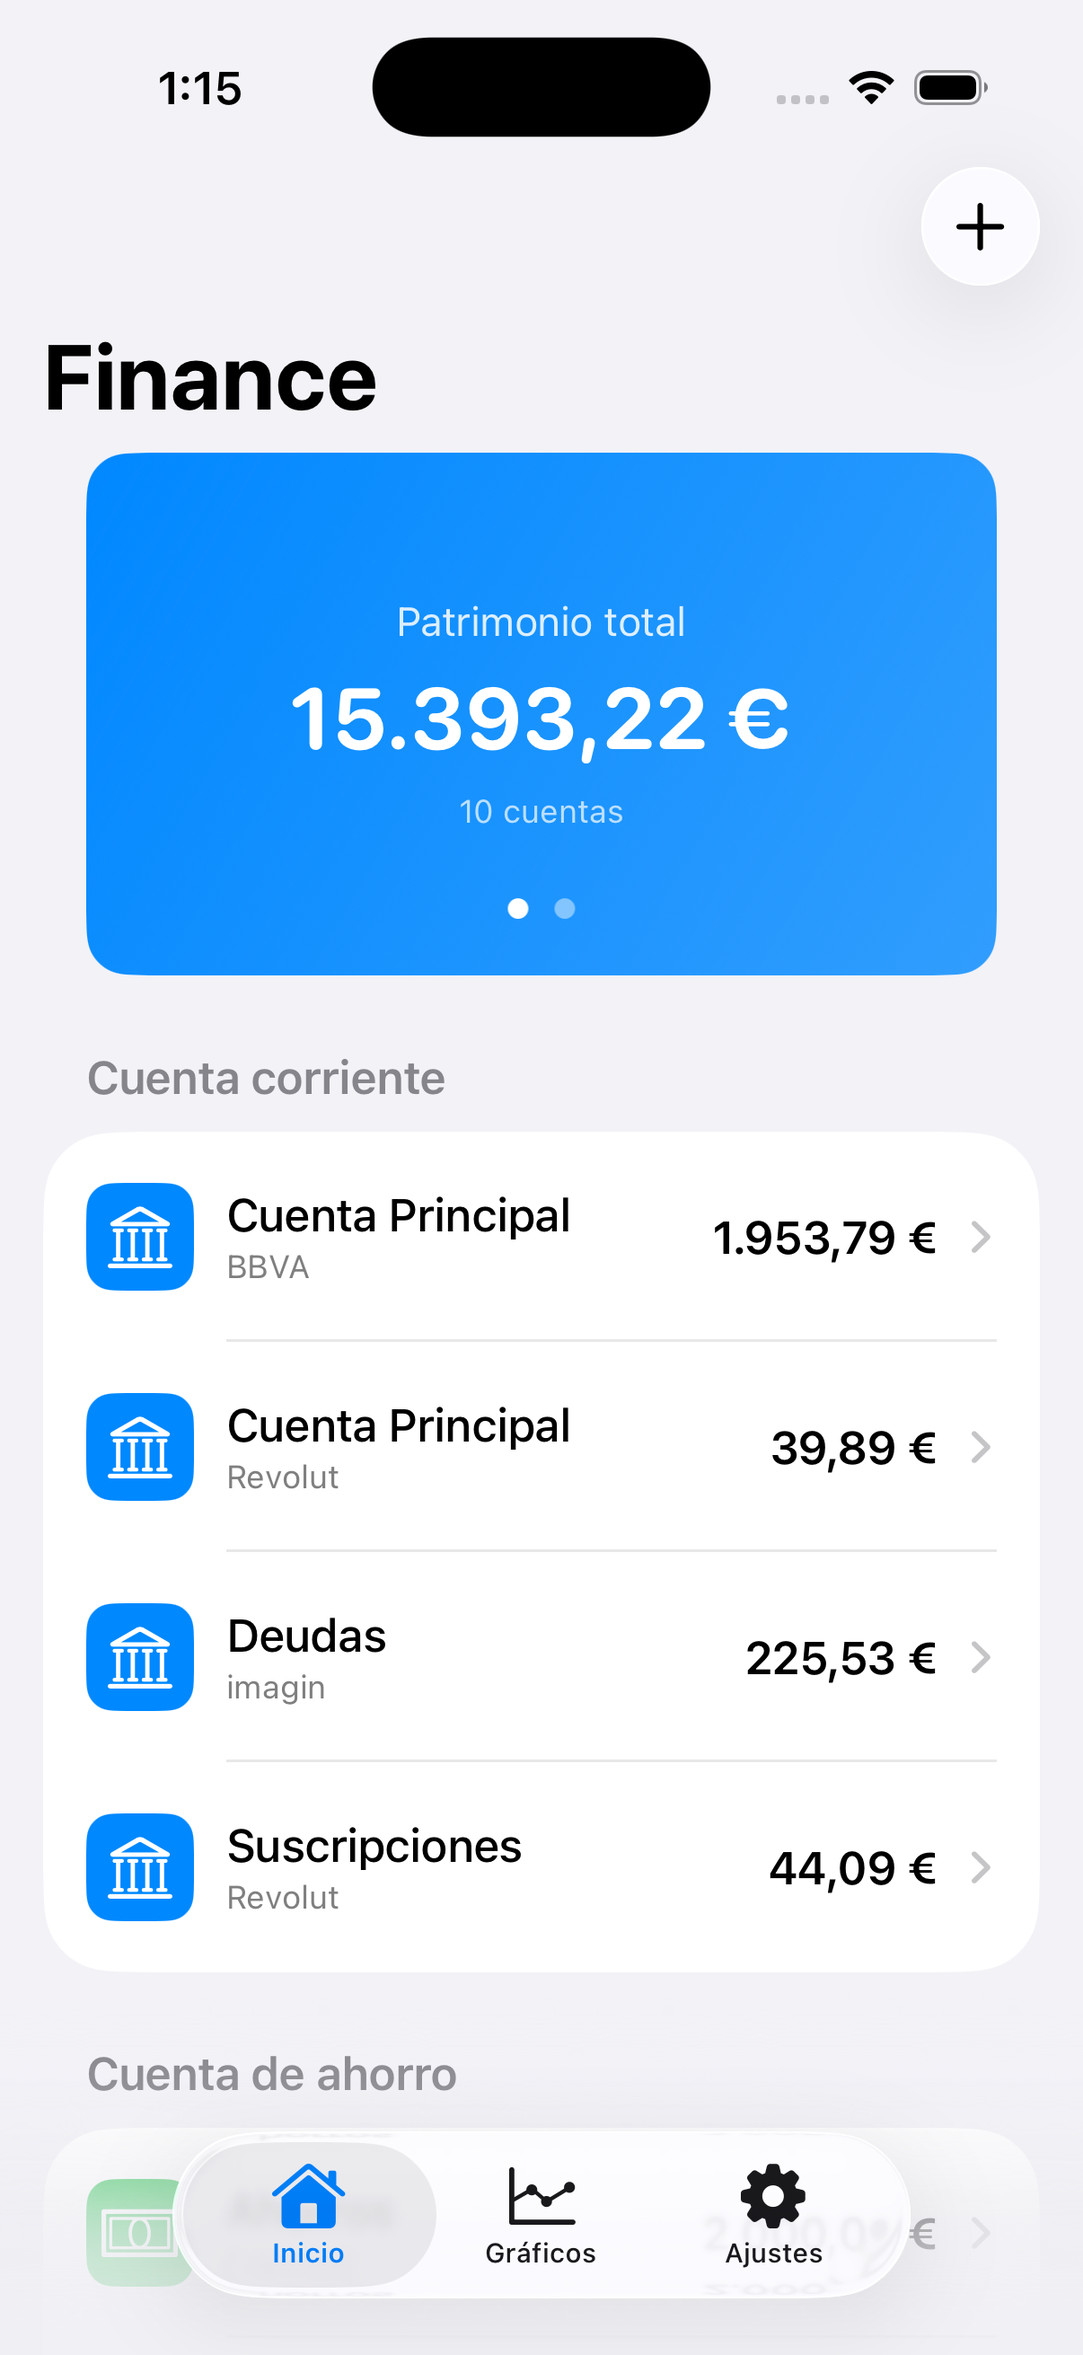
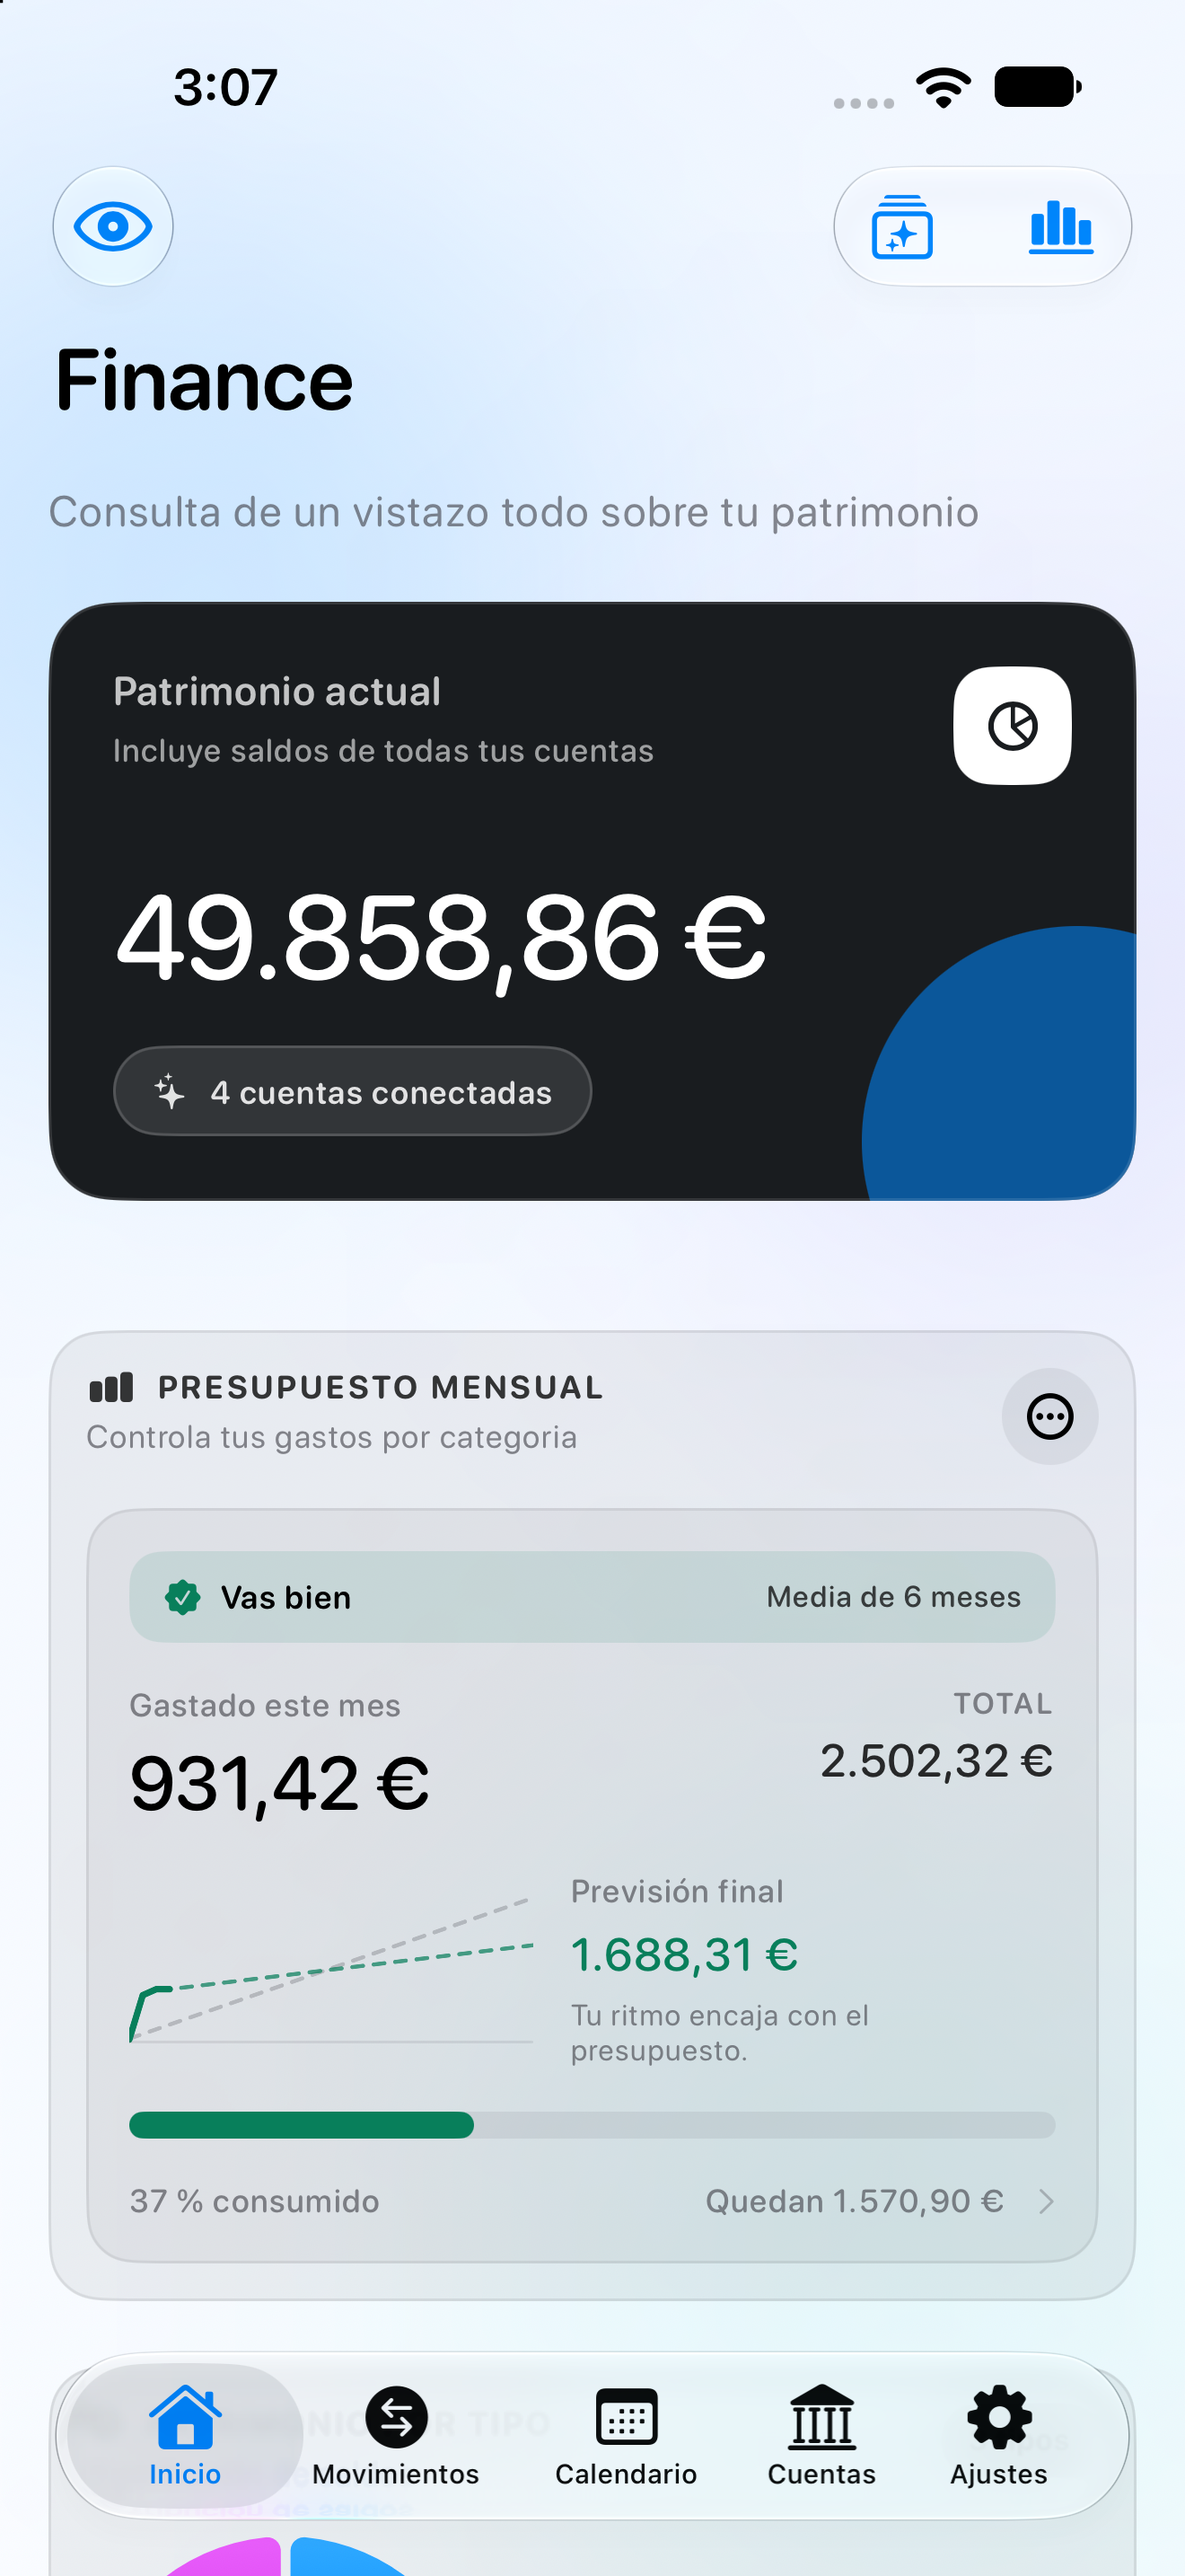
docs: expand SideStore listing with app screenshots

diff --git a/scripts/update_sidestore_source.py b/scripts/update_sidestore_source.py
@@ -9,12 +9,29 @@ import sys
 import zipfile
 from datetime import datetime, timezone
 from pathlib import Path
-from urllib.parse import urlparse
+from urllib.parse import urljoin, urlparse
 
 
 APP_ID = "com.getincouch.Finance"
 WIDGET_ID = "com.getincouch.Finance.FinanceWidgetExtension"
 SOURCE_ID = "com.getincouch.Finance.sidestore"
+WEBSITE_URL = "https://github.com/IsmaelP19/finance"
+SCREENSHOT_FILES = (
+    "home.png",
+    "movements.png",
+    "investments.png",
+    "wrapped-september.png",
+)
+APP_DESCRIPTION = "\n\n".join(
+    [
+        "Gestiona tus finanzas personales desde el iPhone con registro manual y datos locales, sin conectar tus cuentas bancarias.",
+        "CUENTAS Y MOVIMIENTOS\nOrganiza bancos y cuentas, registra ingresos, gastos y transferencias, y consulta tus movimientos con filtros y búsqueda. Controla gastos compartidos y reembolsos pendientes.",
+        "PRESUPUESTOS Y RECURRENTES\nDistribuye tu presupuesto mensual por categorías y recibe alertas locales. Planifica ingresos y gastos recurrentes en el calendario y confirma cada ocurrencia para actualizar el saldo.",
+        "ESTADÍSTICAS E INVERSIONES\nConsulta gráficos, comparativas entre periodos y tu resumen mensual Wrapped. Registra manualmente el importe invertido y el valor de mercado para seguir la evolución de tus inversiones.",
+        "COPIAS Y ACCESO RÁPIDO\nExporta e importa tus datos en JSON y configura copias opcionales en iCloud Drive. Añade gastos desde el widget o mediante Atajos y Siri.",
+        "PRIVACIDAD\nLos datos se guardan en el dispositivo mediante SwiftData. Finance no usa un backend propio ni analítica externa; tú decides cuándo exportar datos o utilizar iCloud Drive.",
+    ]
+)
 
 
 def https_url(value: str) -> str:
@@ -91,7 +108,7 @@ def main() -> int:
             "date": datetime.now(timezone.utc).isoformat(timespec="seconds").replace(
                 "+00:00", "Z"
             ),
-            "localizedDescription": f"Finance {version} ({build})",
+            "localizedDescription": f"Finance {version}. Instalación o actualización mediante SideStore. Consulta las funciones y las instrucciones de uso en el repositorio del proyecto.",
             "downloadURL": args.download_url,
             "size": args.ipa.stat().st_size,
         }
@@ -109,18 +126,39 @@ def main() -> int:
                 break
 
         versions = [version_entry, *previous_versions]
+        for entry in versions:
+            if entry.get("localizedDescription") == (
+                f"Finance {entry['version']} ({entry.get('buildVersion')})"
+            ):
+                entry["localizedDescription"] = (
+                    f"Finance {entry['version']}. Instalación mediante SideStore."
+                )
         source = {
             "name": "Finance",
             "identifier": SOURCE_ID,
             "sourceURL": args.source_url,
+            "subtitle": "Tu dinero, organizado desde el iPhone",
+            "description": "Fuente de Finance para SideStore: cuentas, movimientos, presupuestos e inversiones con registro manual y datos locales. Incluye la app y su widget para añadir gastos.",
+            "website": WEBSITE_URL,
+            "iconURL": args.icon_url,
             "apps": [
                 {
                     "name": "Finance",
                     "bundleIdentifier": APP_ID,
                     "developerName": "IsmaelP19",
                     "subtitle": "Finanzas personales en tu dispositivo",
-                    "localizedDescription": "Gestiona cuentas, movimientos, presupuestos e inversiones de forma local.",
+                    "localizedDescription": APP_DESCRIPTION,
                     "iconURL": args.icon_url,
+                    "screenshots": [
+                        {
+                            "imageURL": urljoin(
+                                args.source_url, f"screenshots/{filename}"
+                            ),
+                            "width": 1320,
+                            "height": 2868,
+                        }
+                        for filename in SCREENSHOT_FILES
+                    ],
                     "version": version,
                     "versionDate": version_entry["date"],
                     "downloadURL": args.download_url,

diff --git a/README.md b/README.md
@@ -193,3 +193,25 @@ Para añadir Finance en un iPhone con SideStore ya instalado:
 Con un Apple ID gratuito, SideStore vuelve a firmar la app en cada dispositivo: hay que refrescarla antes de que pasen siete días y se aplica el límite de tres apps activas, contando SideStore. No se usa el flujo **Distribute App** de Xcode ni se necesita Apple Developer Program de pago. [Documentación de fuentes de SideStore](https://docs.sidestore.io/docs/advanced/app-sources) · [Preguntas frecuentes de SideStore](https://docs.sidestore.io/docs/faq).
 
 El IPA probado actualmente exige iOS 26.2 o posterior. La fuente declarará el mínimo de iOS del IPA publicado.
+
+### Ficha de Finance en SideStore
+
+La fuente incluye una descripción de las funciones actuales y una galería de la app. La documentación completa de uso y distribución está en este repositorio, enlazado desde la fuente. El generador `scripts/update_sidestore_source.py` incorpora estos contenidos al JSON; el workflow publica también el icono y las capturas en GitHub Pages.
+
+| Inicio: cuentas y resumen | Movimientos: registro diario |
+| --- | --- |
+| <img src="docs/screenshots/home.png" alt="Inicio de Finance con cuentas y resumen financiero de demostración" width="280"> | <img src="docs/screenshots/movements.png" alt="Lista de movimientos de demostración en Finance" width="280"> |
+
+| Inversiones: evolución de la cartera | Wrapped: resumen de septiembre |
+| --- | --- |
+| <img src="docs/screenshots/investments.png" alt="Evolución de una cartera de inversiones inventada en Finance" width="280"> | <img src="docs/screenshots/wrapped-september.png" alt="Resumen Wrapped de septiembre con datos inventados" width="280"> |
+
+Las capturas proceden del simulador iPhone 16 Pro Max (iOS 27), a 1320 × 2868 píxeles, y se actualizaron el 4 de octubre de 2026. Todos los datos son inventados para representar un uso cotidiano: cuentas, movimientos e importes son de demostración. Son referencias visuales y pueden diferir de la última versión publicada. Consulta [las instrucciones de capturas](docs/screenshots/README.md) para actualizarlas.
+
+### Qué significa el número entre paréntesis
+
+En etiquetas como `1.3.4 (35)`, `1.3.4` es la versión de Finance y `35` es el número de compilación o **build**. SideStore puede añadir ese build al mostrar una versión que lo declara. No indica un error ni el número de actualizaciones pendientes.
+
+La fuente conserva `buildVersion`, que coincide con `CFBundleVersion` dentro del IPA, para identificar las compilaciones y gestionar las actualizaciones. Cambiar el título de una GitHub Release o la descripción de la ficha no elimina el sufijo que SideStore añade en su propia interfaz. Las nuevas Releases se titulan `Finance <versión>` y las notas generadas de cada versión omiten el build, sin afirmar cambios que el generador no puede verificar.
+
+Estos cambios de la ficha se hacen públicos cuando se publica un push a `release/*` y termina el despliegue de Pages. Después puede ser necesario actualizar las fuentes en SideStore para ver la descripción y las capturas nuevas.

diff --git a/docs/screenshots/README.md b/docs/screenshots/README.md
@@ -1,11 +1,24 @@
 # Screenshots
 
-Este directorio puede usarse para guardar capturas de referencia del proyecto.
+Este directorio contiene las capturas usadas en la documentación y en la ficha de SideStore.
 
-Actualmente el `README.md` principal no muestra imagenes para evitar desalineacion con versiones antiguas de la app.
+## Galería actual
 
-Si en el futuro se vuelven a incluir capturas en el README, se recomienda:
+- `home.png`: Inicio, con cuentas y resumen financiero.
+- `movements.png`: lista de movimientos cotidianos.
+- `investments.png`: evolución de la cartera de inversiones.
+- `wrapped-september.png`: resumen mensual Wrapped de septiembre.
+- Capturadas el 4 de octubre de 2026 en el simulador iPhone 16 Pro Max (iOS 27).
+- Resolución: 1320 × 2868 píxeles.
+- Todos los datos son inventados, con nombres, movimientos e importes verosímiles para mostrar un uso normal de la app. No proceden de cuentas ni operaciones personales.
+- El README principal muestra esta galería. El workflow de SideStore copia los cuatro archivos a `screenshots/` en GitHub Pages; la fuente referencia sus URL, ancho y alto en el mismo orden.
 
-- Mantener una misma resolucion para todas
-- Regenerarlas en cada cambio visual importante
-- Versionarlas junto con la actualizacion del propio README
+## Actualizarla
+
+1. Preparar un simulador de demostración con datos completamente inventados y abrir cada una de las cuatro vistas. Revisar que no aparezcan datos personales, notificaciones ni información ajena a la app.
+2. Capturar las vistas y sustituir los PNG conservando sus nombres. Actualizar la fecha, el dispositivo y los textos de las vistas indicados aquí y en el README principal.
+3. Comprobar la resolución de los cuatro archivos. Si cambia, actualizar `width` y `height` en `scripts/update_sidestore_source.py`. Si se añaden o renombran capturas, actualizar también `SCREENSHOT_FILES`, la lista del workflow y la galería del README.
+4. Revisar visualmente los PNG y generar una fuente de prueba local para comprobar las URL, dimensiones y orden de las capturas.
+5. Publicar mediante el flujo habitual de `release/*`. El despliegue de Pages publica las imágenes junto con la fuente; comprobar sus URL y actualizar las fuentes en SideStore para ver la galería.
+
+Las capturas son referencias visuales; no garantizan que todos los dispositivos o versiones de iOS se vean exactamente igual.
